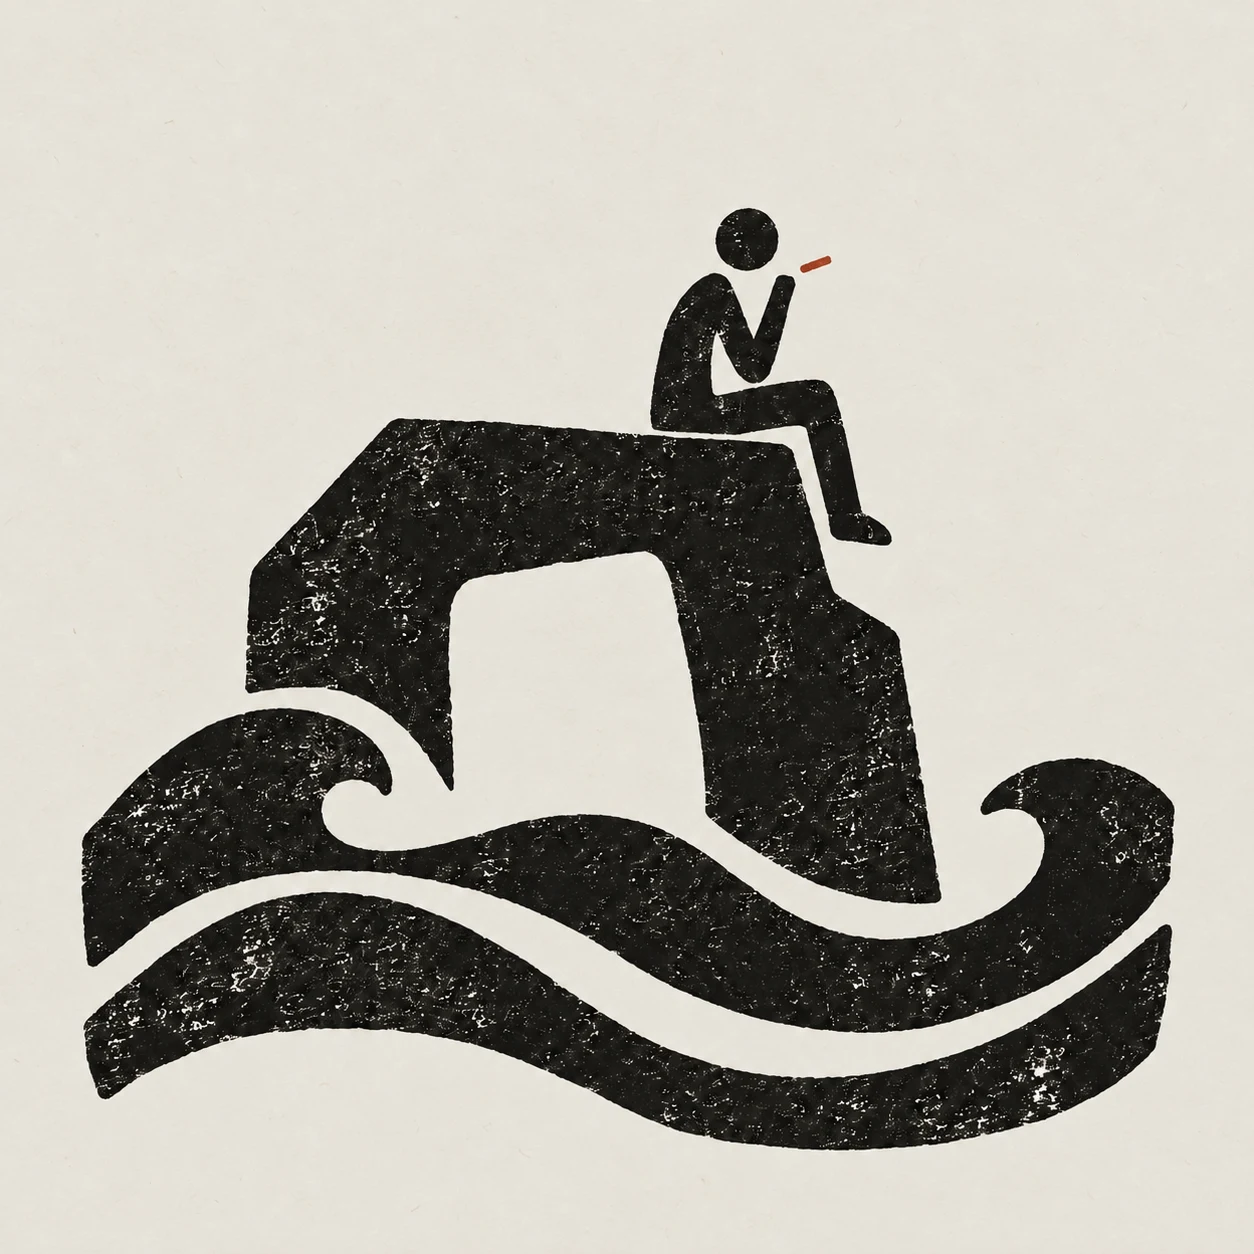
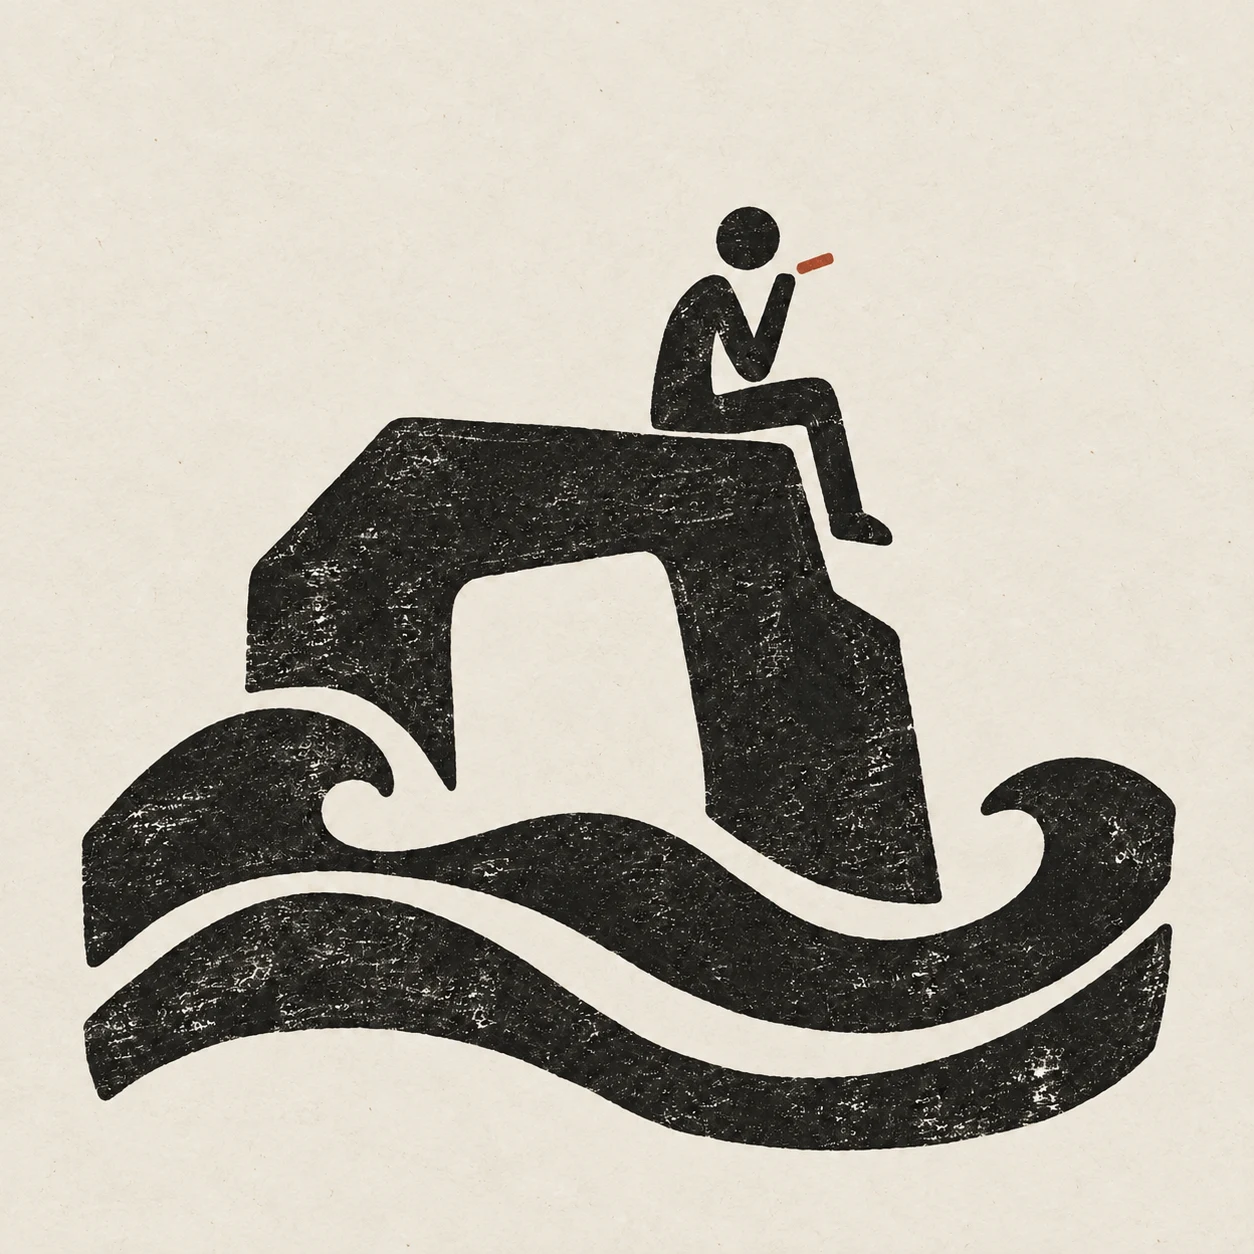
Match selected flood artwork to the blog paper and print texture

diff --git a/docs/evidence/TASK-0618-ai-self-worth-artwork.md b/docs/evidence/TASK-0618-ai-self-worth-artwork.md
@@ -2,9 +2,9 @@
 
 ## Source and authorization
 
-The owner selected “آدم و سیل” (concept 1) and requested its use in both editions. Original generation: `exec-ec5c0125-4c3c-443b-bd46-c0a897698f00`. Subsequent owner feedback requested paper-color consistency with existing article images. The background-only image edit uses the existing loop essay artwork as its reference: `exec-12ffadb9-d120-48f9-b77c-258b3b07da2e`.
+The owner selected “آدم و سیل” (concept 1) and requested its use in both editions. Original generation: `exec-ec5c0125-4c3c-443b-bd46-c0a897698f00`. Subsequent owner feedback requested paper-color consistency with existing article images. The paper-and-print-texture edit uses the existing loop and understanding essay artworks as references: `exec-93be6b9f-8a36-42dd-a54b-acf2d4881dea`.
 
-One optimized 1254 × 1254 WebP is shared across FA/EN at `/images/articles/ai-and-self-worth/hero.webp`; quality 88, 149,694 bytes, with stripped metadata. Black printed shapes, brick accent and square composition retain the chosen concept. The source images remain separately preserved.
+One optimized 1254 × 1254 WebP is shared across FA/EN at `/images/articles/ai-and-self-worth/hero.webp`; quality 88, 206,288 bytes, with stripped metadata. Black printed shapes, brick accent and square composition retain the chosen concept. The source images remain separately preserved.
 
 ## Verification
 

diff --git a/docs/tasks/phase-06-deployment/TASK-0618-add-ai-self-worth-artwork.md b/docs/tasks/phase-06-deployment/TASK-0618-add-ai-self-worth-artwork.md
@@ -15,14 +15,14 @@ its addition and publication through the existing PR/Pages workflow.
 
 ## Scope and deliverables
 
-- Preserve the selected generated composition; match the existing artwork's paper color as additionally requested by the owner, then create a 1254-square WebP at quality 88.
+- Preserve the selected generated composition; match the existing artwork's paper color and print texture as additionally requested by the owner, then create a 1254-square WebP at quality 88.
 - Share one cover path across both editions with independently authored alt text.
 - Record provenance and the owner's use authorization.
 - Keep prose, dates, categories, templates, styles and historical baselines unchanged.
 
 ## Acceptance and verification
 
-Both article pages and both featured Home entries display the chosen asset.
+Both article pages display the chosen asset. Home displays it when this article is selected as featured writing.
 Article indexes, related links and other lists remain text-only. Validate the
 optimized file, generated markup, unchanged prose, full quality gate and
 the live asset after Pages completes. Record evidence in

diff --git a/public/images/articles/README.md b/public/images/articles/README.md
@@ -10,7 +10,7 @@ selected the concepts and explicitly authorized their use on this blog.
 | A Project Should Be Able to Explain Itself | `exec-cbb453ad-581e-4b4d-87d4-182b6cd0046c` | `project-should-explain-itself/hero.webp` |
 | Building a Project with Document-Aware Development | `exec-6561e68e-08bf-4295-af9f-dd256735c421` | `building-a-project-with-dad/hero.webp` |
 | Returning to the Same Place, but Not as the Same Person | `exec-cd5dea9c-ae13-4550-90c7-a451c2f1181c` | `same-place-different-self/hero.webp` |
-| If AI Replaces You, Does That Make You Worthless? | `exec-ec5c0125-4c3c-443b-bd46-c0a897698f00`, paper-tone edit `exec-12ffadb9-d120-48f9-b77c-258b3b07da2e` | `ai-and-self-worth/hero.webp` |
+| If AI Replaces You, Does That Make You Worthless? | `exec-ec5c0125-4c3c-443b-bd46-c0a897698f00`, paper-and-print-texture edit `exec-93be6b9f-8a36-42dd-a54b-acf2d4881dea` | `ai-and-self-worth/hero.webp` |
 
 The AI/self-worth artwork was generated on 2026-10-13 (Asia/Tehran). Mehdi
 selected the first concept, “آدم و سیل”, and explicitly authorized its use for
